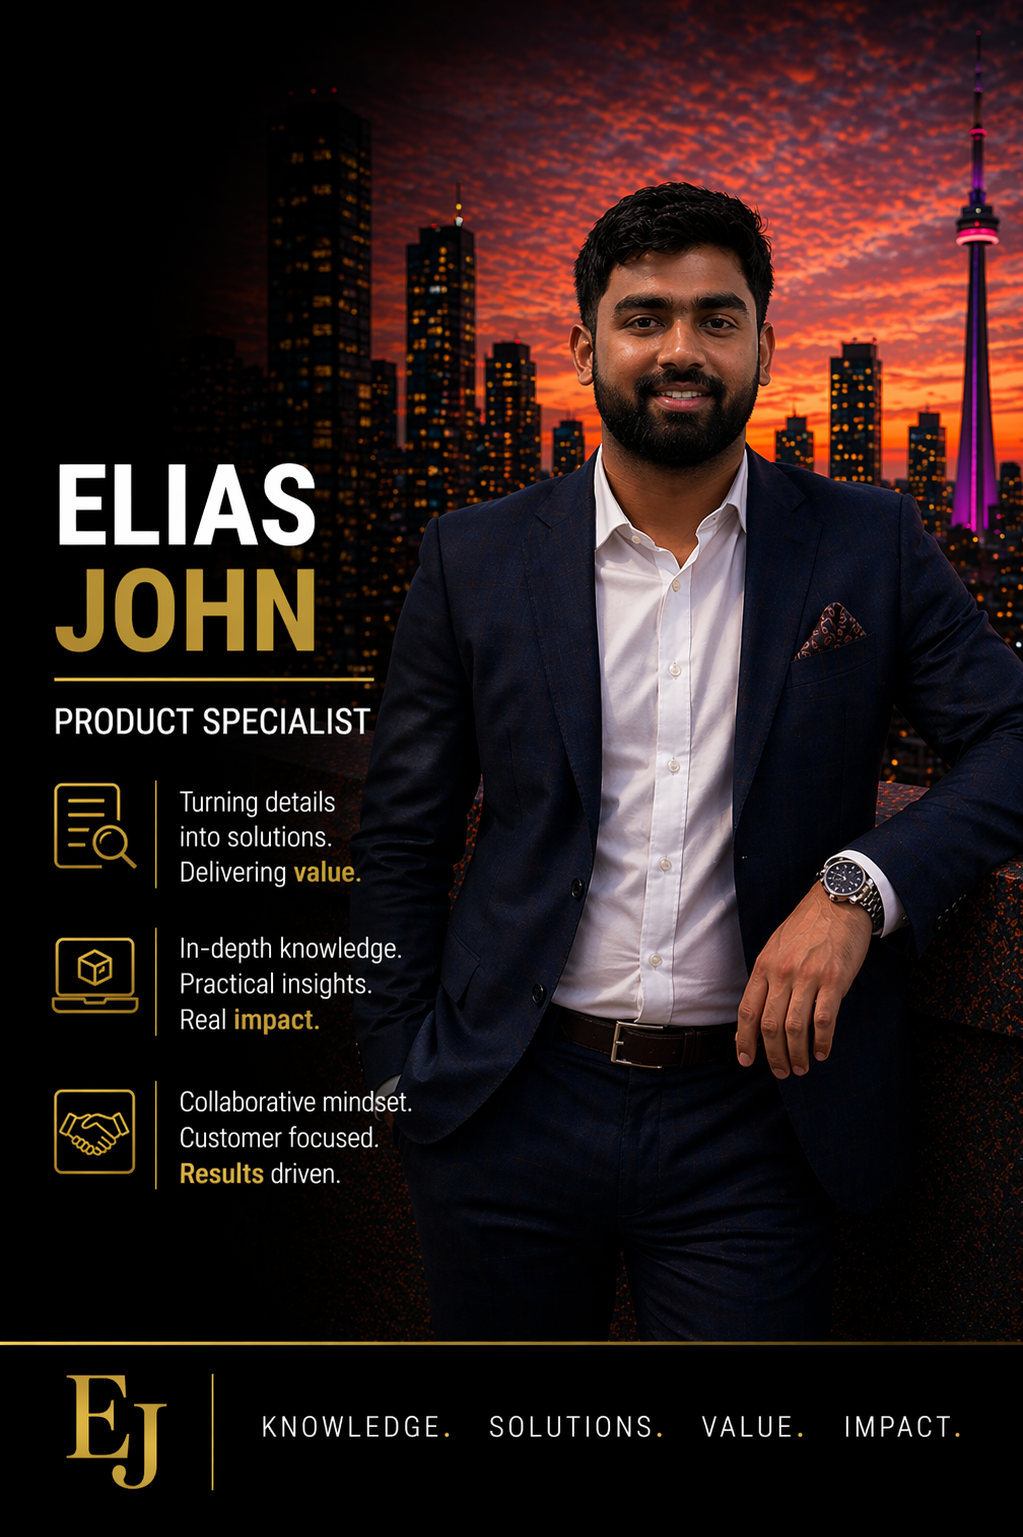
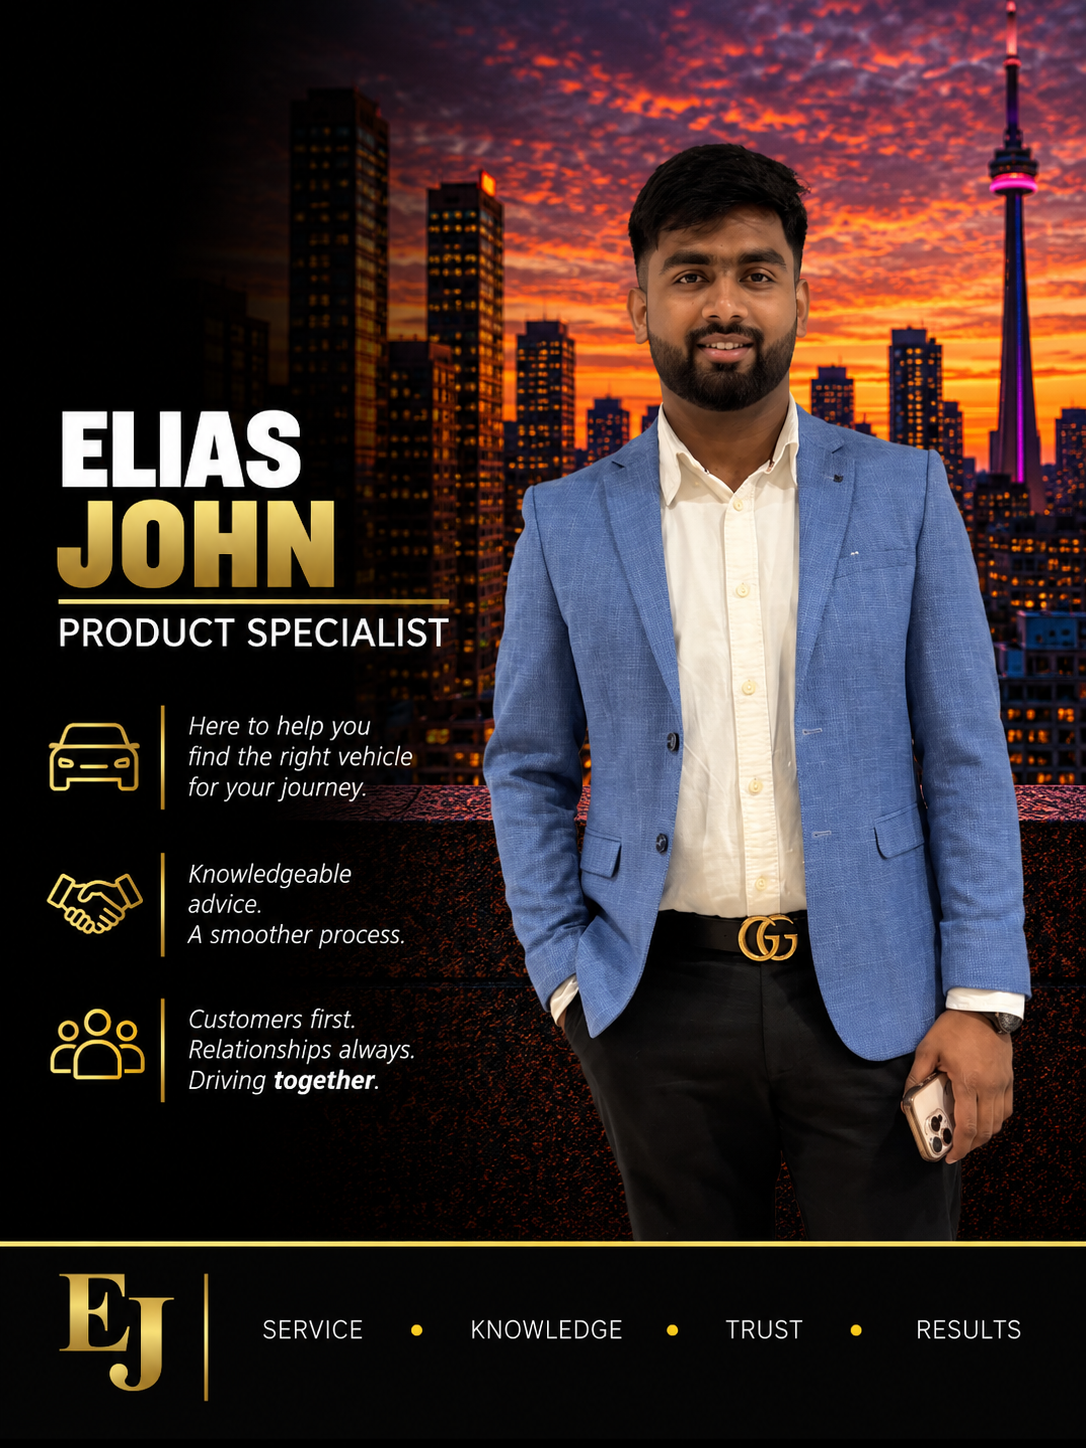
New photo for Elias John; normalises his aspect ratio
Replacement flyer in the same sunset-portrait house style as the recent
additions. Title is unchanged -- the flyer reads "Product Specialist",
which is already what his card says -- so team-d2c.html and team.html are
untouched here.

The swap also fixes a long-standing outlier. His old photo was 1023x1537
(0.6656) against the house 3:4, so its webp came out 800x1202 while the
rest of 03 — Sales Team sit at 800x1067. Since .gmc-img renders at natural
ratio in a stretch-aligned flex row, that one tall card was stretching its
whole row. The new flyer is 1086x1448, exactly 3:4, so the webp lands on
800x1067 with no crop and the row is now uniform.

Only the generated team-edealer.* files change in markup, and only the
intrinsic size hint: height 1202 -> 1067, picked up automatically by
build-edealer.mjs reading the real dimensions off disk.

png and webp both regenerated per Decisions.md -- replacing only the png
would have kept serving the stale webp.

diff --git a/team-edealer.embed.html b/team-edealer.embed.html
@@ -118,7 +118,7 @@
         <div class="gmc-grid">
           <div class="gmc-cell">
             <div class="gmc-box">
-              <div class="gmc-img"><img src="https://golden-mile-team-page.pages.dev/team-photos/Elias%20John.webp" alt="Elias John" loading="lazy" width="800" height="1202"></div>
+              <div class="gmc-img"><img src="https://golden-mile-team-page.pages.dev/team-photos/Elias%20John.webp" alt="Elias John" loading="lazy" width="800" height="1067"></div>
               <div class="gmc-details">
                 <div class="gmc-name">Elias John</div>
                 <div class="gmc-title">Product Specialist</div>

diff --git a/team-edealer.html b/team-edealer.html
@@ -118,7 +118,7 @@
         <div class="gmc-grid">
           <div class="gmc-cell">
             <div class="gmc-box">
-              <div class="gmc-img"><img src="https://golden-mile-team-page.pages.dev/team-photos/Elias%20John.webp" alt="Elias John" loading="lazy" width="800" height="1202"></div>
+              <div class="gmc-img"><img src="https://golden-mile-team-page.pages.dev/team-photos/Elias%20John.webp" alt="Elias John" loading="lazy" width="800" height="1067"></div>
               <div class="gmc-details">
                 <div class="gmc-name">Elias John</div>
                 <div class="gmc-title">Product Specialist</div>

diff --git a/team-edealer.local.html b/team-edealer.local.html
@@ -127,7 +127,7 @@
         <div class="gmc-grid">
           <div class="gmc-cell">
             <div class="gmc-box">
-              <div class="gmc-img"><img src="team-photos/Elias%20John.webp" alt="Elias John" loading="lazy" width="800" height="1202"></div>
+              <div class="gmc-img"><img src="team-photos/Elias%20John.webp" alt="Elias John" loading="lazy" width="800" height="1067"></div>
               <div class="gmc-details">
                 <div class="gmc-name">Elias John</div>
                 <div class="gmc-title">Product Specialist</div>
